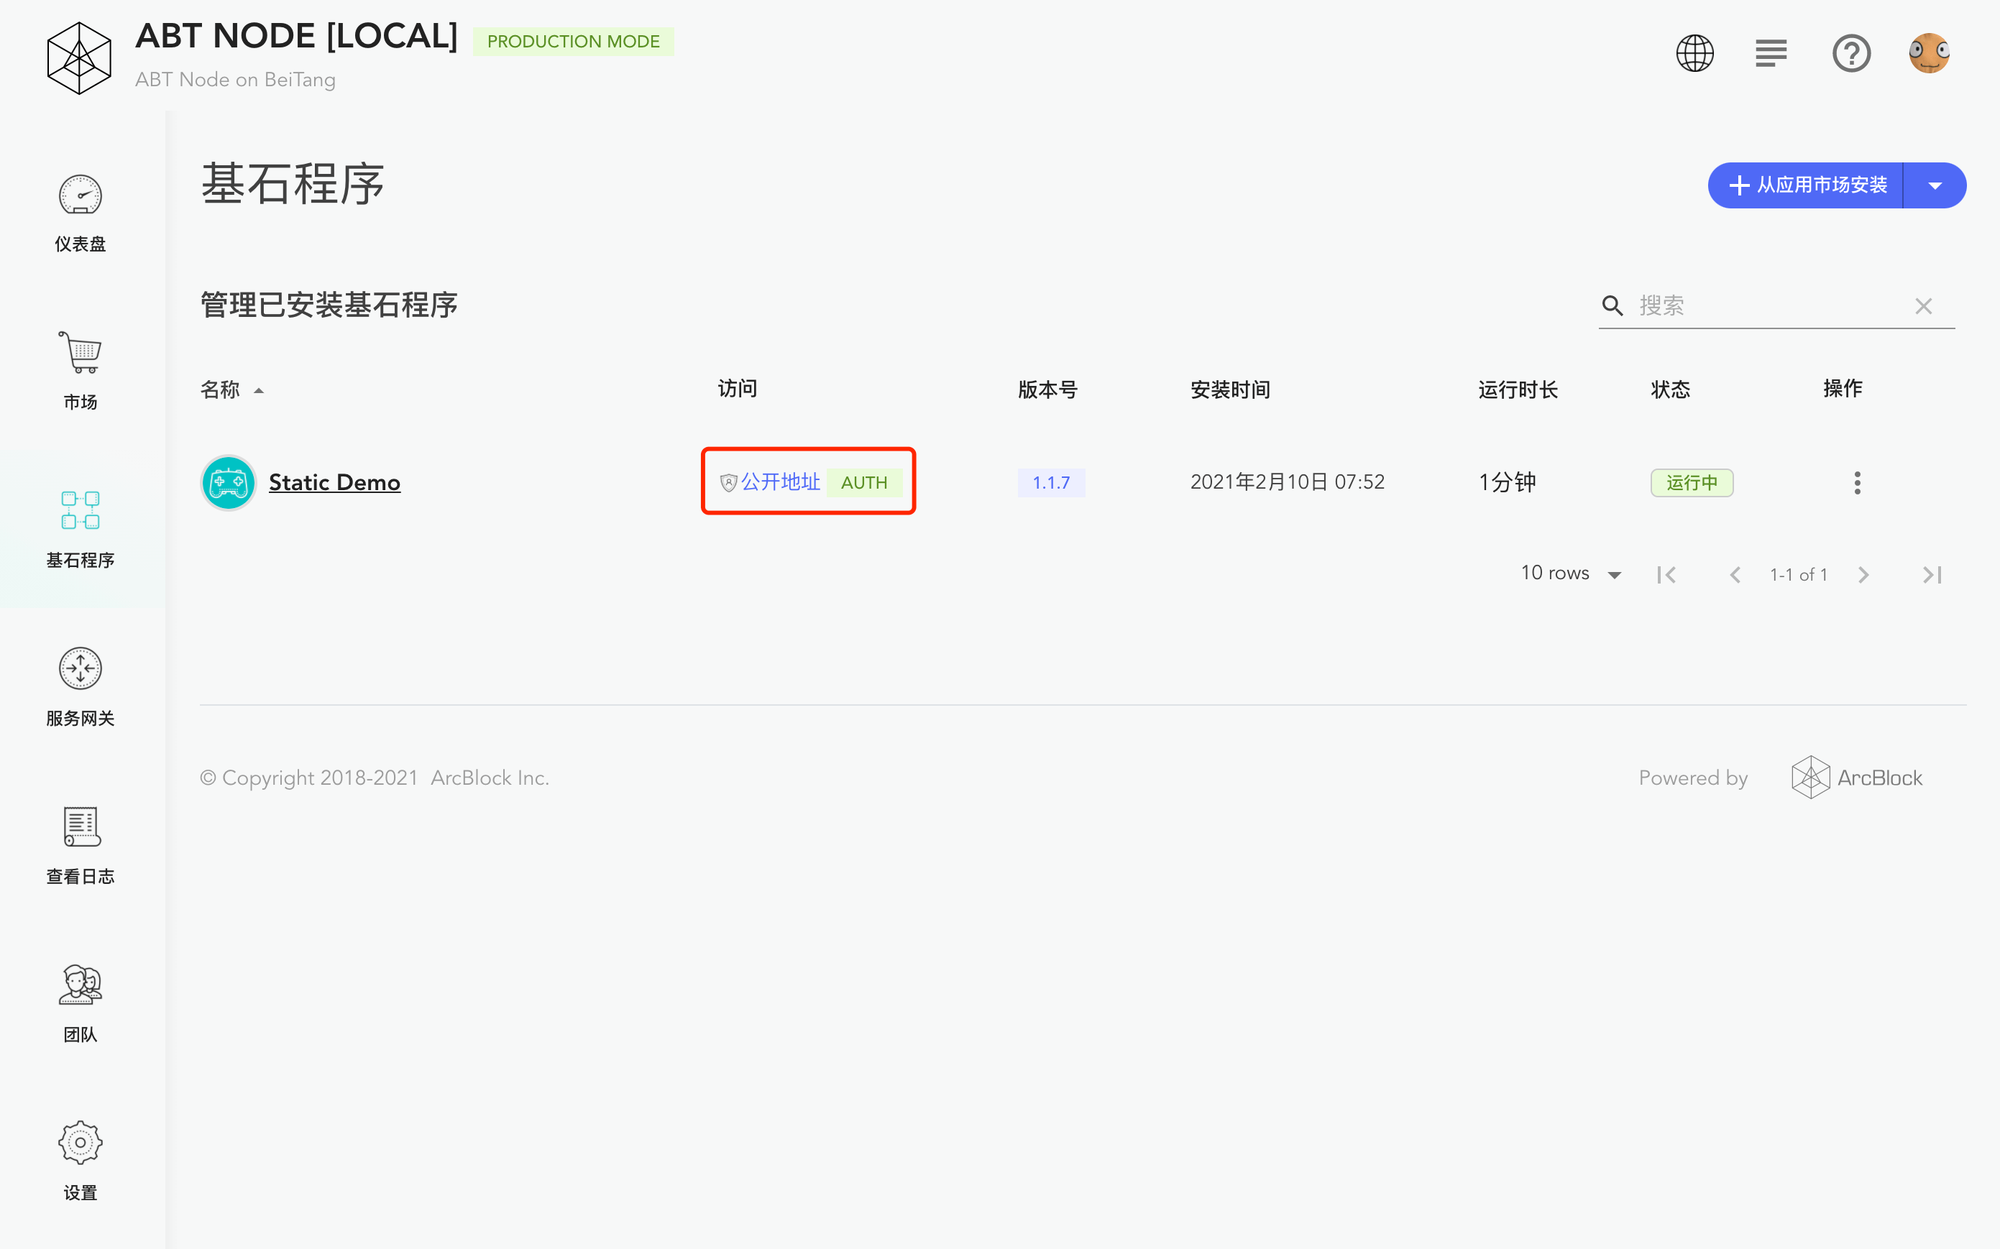
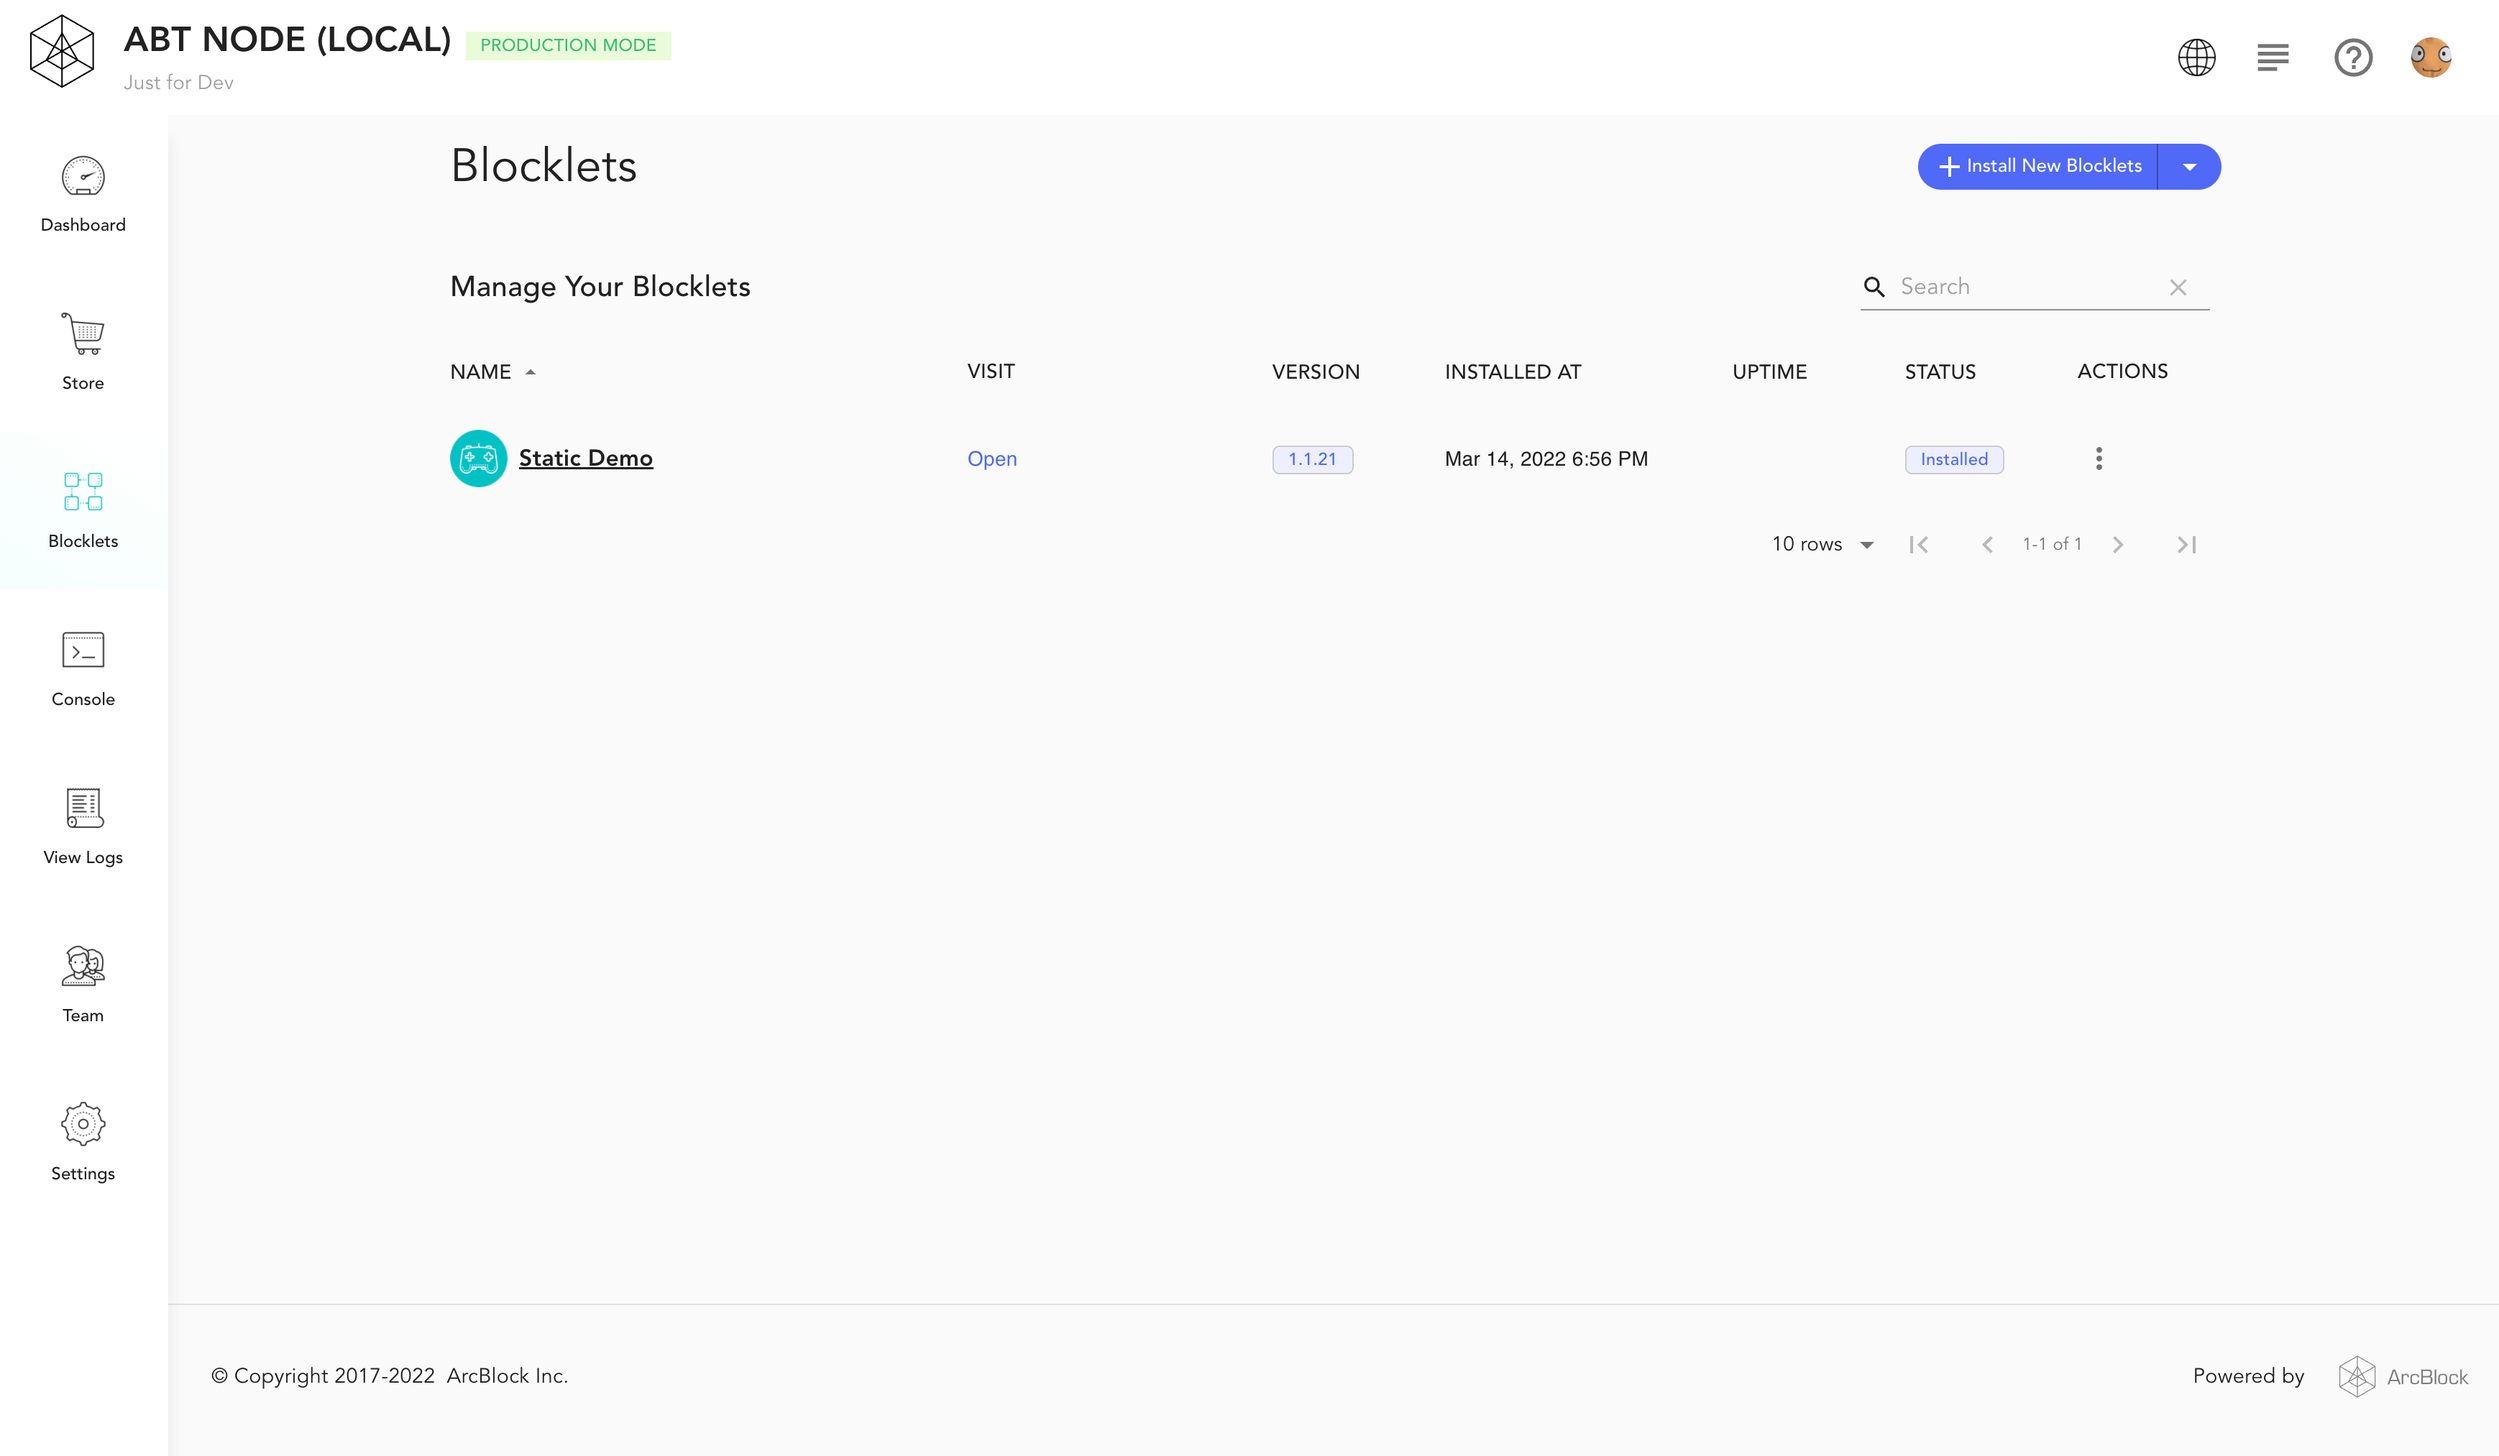
doc: update doc for auth service

diff --git a/src/developer/auth-service/index.zh.md b/src/developer/auth-service/index.zh.md
@@ -1,6 +1,6 @@
 ---
-title: '配置 Auth Service'
-description: 'Auth Service 使用说明'
+title: 'Auth 服务'
+description: 'Auth 服务使用说明'
 keywords: 'blocklet server, blocklet, service, auth'
 author: 'linchen'
 category: ''
@@ -12,23 +12,23 @@ tags:
   - 'auth'
 ---
 
-Auth Service 是 Blocklet Server 为 Blocklet 提供的通用 Auth 服务。
+Blocklet Server 为 Blocklet 提供了通用 Auth 服务。
 
-Blocklet 可以通过在 `blocklet.yml` 中以声明的方式启用和配置 Auth Service.
-
-Auth Service 包含以下主要能力：
-- 设置登录可访问
-- 设置授权可访问
-- 设置邀请登录和开放登录
+Auth 服务提供以下能力
+- 获取用户身份
+- 获取用户权限
+- 拦截未登录的请求（默认不拦截）
+- 拦截无权限的请求（默认不拦截）
+- 设置邀请登录和开放登录（默认为开放登录）
 
 ## 入门
-[static-demo-blocklet](https://github.com/blocklet/html-2048-sample) 是一个可以运行在 Blocklet Server 上的 html5 游戏。下面将介绍如何制作一个拥有 Auth 能力（登录后可访问）的 static-demo-blocklet.
+[static-demo-blocklet](https://github.com/blocklet/html-2048-sample) 是一个可以运行在 Blocklet Server 上的 html5 游戏。下面将介绍如何制作一个只允许登录后可访问的 static-demo-blocklet.
 
-0. 前置条件: 本地安装并且运行 v1.2.0 以上版本的 Blocklet Server
+0. 前置条件: 本地安装并且运行 v1.7.0 以上版本的 Blocklet Server
 
 1. 下载项目源代码 [html-2048-sample](https://github.com/blocklet/html-2048-sample)
 
-2. 打开项目根目录下 `blocklet.yml`, 找到 name 为 publicUrl 的 interface, 并添加 Auth Service 配置
+2. 打开项目根目录下 `blocklet.yml`, 找到 name 为 publicUrl 的 interface, 并添加 Auth 配置
 
 ``` yml
 interfaces:
@@ -39,7 +39,9 @@ interfaces:
     port: BLOCKLET_PORT
     protocol: tcp
 +   services:
-+     - name: '@abtnode/auth-service'
++     - name: 'auth'
++       config:
++         blockUnauthenticated: true
 ```
 
 3. 在项目根目录下执行 `blocklet bundle`. 执行成功后, 在 `.blocklet/bundle` 中会看到被成功创建的 blocklet bundle.
@@ -50,7 +52,7 @@ linchen@LinkdeMacBook-Pro html-2048-sample % blocklet bundle
 ℹ Bundling in zip mode for blocklet static-demo-blocklet...
 
 ✔ Creating blocklet bundle in .blocklet/bundle... Done in 0.018s
-✔ Blocklet static-demo-blocklet@1.1.7 is successfully bundled!
+✔ Blocklet static-demo-blocklet@1.1.21 is successfully bundled!
 ```
 
 4. 在项目根目录下执行 `blocklet deploy .blocklet/bundle`, 将 blocklet bundle 发布到本地运行的 Blocklet Server.
@@ -60,7 +62,7 @@ linchen@LinkdeMacBook-Pro html-2048-sample % blocklet deploy .blocklet/bundle
 ℹ Try to deploy blocklet from /Users/linchen/code/blocklet/html-2048-sample/.blocklet/bundle to Local Blocklet Server
 ℹ Node did from config zNKqGAvUzcCowxtNA5r5gKQYUm2hR4X2SE2o
 ℹ Load config from /Users/linchen/code/arcblock/andata/.abtnode/abtnode.yml
-✔ Blocklet static-demo-blocklet@1.1.7 was successfully deployed!
+✔ Blocklet static-demo-blocklet@1.1.21 was successfully deployed!
 ```
 
 5. 在 Blocklet Server dashboard 启动 Static Demo
@@ -79,23 +81,11 @@ linchen@LinkdeMacBook-Pro html-2048-sample % blocklet deploy .blocklet/bundle
 
 ## Demo
 
-[https://github.com/blocklet/auth-demo](https://github.com/blocklet/auth-demo): 基于 Auth Service 实现了登录，登出，显示用户信息，认证，授权功能
+[https://github.com/blocklet/auth-demo](https://github.com/blocklet/auth-demo): 使用 Auth 服务实现了登录，登出，显示用户信息，认证，授权功能
 
-## 启用 Auth Service
-在 `blocklet.yml` 中，在需要启动 Auth Service 的 interface 下，配置并启用 Auth Service
+## 配置 Auth 服务
+所有 blocklet 安装后即具备了 Auth 能力. 你也可以在 `blocklet.yml` 中配置 Auth 服务
 
-```yml
-interfaces:
-  - type: web
-    name: xxxx
-    # ... other interface config
-    services:
-      - name: '@abtnode/auth-service'
-        config:
-        # ...
-```
-
-## 配置
 e.g.
 
 ```yml
@@ -104,7 +94,7 @@ interfaces:
     name: publicUrl
     # ... other interface config
     services:
-      - name: '@abtnode/auth-service'
+      - name: 'auth'
         config:
           invitedUserOnly: no
           profileFields:
@@ -114,7 +104,7 @@ interfaces:
           webWalletUrl: https://web.abtwallet.io
           ignoreUrls:
             - /path/to/**
-          blockUnauthenticated: true
+          blockUnauthenticated: false
           blockUnauthorized: false
 ```
 
@@ -122,19 +112,17 @@ interfaces:
   - default: no
 - profileFields: 登录时需要提供的身份信息
   - default: [fullName, email, avatar]
-- blockUnauthenticated: Auth Service 是否自动拦截未登录的请求, 并跳转到登录页
-  - default: true
-- blockUnauthorized: Auth Service 是否自动拦截未授权的请求
+- blockUnauthenticated: Auth 服务是否自动拦截未登录的请求, 并跳转到登录页
   - default: false
-- ignoreUrls: Auth Service 不会拦截哪些 url
+- blockUnauthorized: Auth 服务是否自动拦截未授权的请求
+  - default: false
+- ignoreUrls: Auth 服务不会拦截哪些 url
   - default: none
-- webWalletUrl: 通过 Auth Service 登录时的 Web Wallet 地址
+- webWalletUrl: 通过 Auth 服务登录时的 Web Wallet 地址
   - default: https://web.abtwallet.io
 
 ## 设置登录可访问
-启用 Auth Service 后，Auth Service 会自动拦截未登录的请求, 并跳转到 Auth Service 登录页.
-
-如果 Blocklet 希望自己处理未登录的请求, 可以做如下配置:
+设置登录可访问后，Auth 服务会自动拦截未登录的请求, 并跳转到登录页
 
 ```yml
 interfaces:
@@ -142,16 +130,14 @@ interfaces:
     name: xxxx
     # ... other interface config
     services:
-      - name: '@abtnode/auth-service'
+      - name: 'auth'
         config:
-          blockUnauthenticated: false
+          blockUnauthenticated: true
 ```
 
 ## 设置授权可访问
 
-启用 Auth Service 后，Auth Service **不会** 自动拦截未授权的请求. Blocklet 需要自己处理.
-
-如果 Blocklet 希望 Auth Service 自动拦截未授权的请求, 可以做如下配置:
+After setting authorized access, Auth Service automatically intercepts unauthorized requests
 
 ```yml
 interfaces:
@@ -159,7 +145,7 @@ interfaces:
     name: xxxx
     # ... other interface config
     services:
-      - name: '@abtnode/auth-service'
+      - name: 'auth'
         config:
           blockUnauthorized: true
 ```
@@ -178,7 +164,7 @@ interfaces:
     name: xxxx
     # ... other interface config
     services:
-      - name: '@abtnode/auth-service'
+      - name: 'auth'
         config:
           invitedUserOnly: yes
 ```
@@ -186,4 +172,3 @@ interfaces:
 - invitedUserOnly
   - no: 开放登录 (默认)
   - yes: 只能通过邀请链接登录
-  - not-first: 只有第一个登录用户不需要通过邀请链接

diff --git a/src/developer/auth-service/index.md b/src/developer/auth-service/index.md
@@ -1,5 +1,5 @@
 ---
-title: 'Configure Auth Service'
+title: 'Auth Service'
 description: 'Auth Service Instructions'
 keywords: 'blocklet server, blocklet, service, auth'
 author: 'linchen'
@@ -12,23 +12,23 @@ tags:
   - 'auth'
 ---
 
-Auth Service is a general Auth service provided by Blocklet Server for Blocklet.
+Blocklet Server provides generic auth service for Blocklets.
 
-Blocklet can be declaratively enabled and configured Auth Service in `blocklet.yml`.
-
-Auth Service includes the following main capabilities:
-- Set accessible after login
-- Set accessible after authorization
-- Set invitation login or open login
+Auth service provides the following capabilities
+- Get user identity
+- Get user permissions
+- Intercept unlogged requests (do not intercept by default)
+- Intercept unauthorised requests (do not intercept by default)
+- Set invite login and open login (default is open login)
 
 ## Getting Started
-[static-demo-blocklet](https://github.com/blocklet/html-2048-sample) is an html5 game that can be run on Blocklet Server. The following will introduce how to make a static-demo-blocklet with Auth capability (login protection)
+[static-demo-blocklet](https://github.com/blocklet/html-2048-sample) is an html5 game that can be run on Blocklet Server. The following will introduce how to make a static-demo-blocklet that is only accessible after login.
 
-0. Prerequisites: Install and run Blocklet Server v1.2.0 or higher locally
+0. Prerequisites: Install and run Blocklet Server v1.7.0 or higher locally
 
 1. Download the project source code [html-2048-sample](https://github.com/blocklet/html-2048-sample)
 
-2. Open `blocklet.yml` in the project root directory, find the interface whose name is publicUrl, and add the Auth Service configuration
+2. Open `blocklet.yml` in the project root directory, find the interface whose name is publicUrl, and add the Auth configuration
 
 ``` yml
 interfaces:
@@ -39,7 +39,9 @@ interfaces:
     port: BLOCKLET_PORT
     protocol: tcp
 +   services:
-+     - name: '@abtnode/auth-service'
++     - name: 'auth'
++       config:
++         blockUnauthenticated: true
 ```
 
 3. Execute `blocklet bundle` in the project root directory. After successful execution, you will see the successfully created blocklet bundle in `.blocklet/bundle`.
@@ -50,7 +52,7 @@ linchen@LinkdeMacBook-Pro html-2048-sample % blocklet bundle
 ℹ Bundling in zip mode for blocklet static-demo-blocklet...
 
 ✔ Creating blocklet bundle in .blocklet/bundle... Done in 0.018s
-✔ Blocklet static-demo-blocklet@1.1.7 is successfully bundled!
+✔ Blocklet static-demo-blocklet@1.1.21 is successfully bundled!
 ```
 
 4. Execute `blocklet deploy .blocklet/bundle` in the project root directory to publish the blocklet bundle to the locally running Blocklet Server.
@@ -60,7 +62,7 @@ linchen@LinkdeMacBook-Pro html-2048-sample % blocklet deploy .blocklet/bundle
 ℹ Try to deploy blocklet from /Users/linchen/code/blocklet/html-2048-sample/.blocklet/bundle to Local Blocklet Server
 ℹ Node did from config zNKqGAvUzcCowxtNA5r5gKQYUm2hR4X2SE2o
 ℹ Load config from /Users/linchen/code/arcblock/andata/.abtnode/abtnode.yml
-✔ Blocklet static-demo-blocklet@1.1.7 was successfully deployed!
+✔ Blocklet static-demo-blocklet@1.1.21 was successfully deployed!
 ```
 
 5. Start Static Demo in Blocklet Server dashboard
@@ -81,21 +83,9 @@ Congratulations!
 
 [https://github.com/blocklet/auth-demo](https://github.com/blocklet/auth-demo): Implement login, logout, display user information, authentication and authorization functions based on Auth Service
 
-## Enable Auth Service
-Enable Auth Service by configuring in `blocklet.yml`, under the interface that needs to start Auth Service
+## Configure the Auth service
+All blocklets are installed with Auth capabilities. You can also configure the Auth service in `blocklet.yml`
 
-```yml
-interfaces:
-  - type: web
-    name: xxxx
-    # ... other interface config
-    services:
-      - name: '@abtnode/auth-service'
-      - config:
-        # ...
-```
-
-## Configuration
 e.g.
 
 ```yml
@@ -104,7 +94,7 @@ interfaces:
     name: publicUrl
     # ... other interface config
     services:
-      - name: '@abtnode/auth-service'
+      - name: 'auth'
         config:
           invitedUserOnly: no
           profileFields:
@@ -114,7 +104,7 @@ interfaces:
           webWalletUrl: https://web.abtwallet.io
           ignoreUrls:
             - /public/**
-          blockUnauthenticated: true
+          blockUnauthenticated: false
           blockUnauthorized: false
 ```
 
@@ -132,9 +122,7 @@ interfaces:
   - default: https://web.abtwallet.io
 
 ## Set accessible after login
-After Auth Service is enabled, Auth Service will automatically intercept requests that are not logged in and jump to the Auth Service login page.
-
-If Blocklet wants to handle unlogged requests by itself, it can be configured as follows:
+After setting the login access, the Auth service will automatically intercept requests that are not logged in, and jump to the login page
 
 ```yml
 interfaces:
@@ -142,9 +130,9 @@ interfaces:
     name: xxxx
     # ... other interface config
     services:
-      - name: '@abtnode/auth-service'
+      - name: 'auth'
         config:
-          blockUnauthenticated: false
+          blockUnauthenticated: true
 ```
 
 ## Set accessible after authorization
@@ -159,7 +147,7 @@ interfaces:
     name: xxxx
     # ... other interface config
     services:
-      - name: '@abtnode/auth-service'
+      - name: 'auth'
         config:
           blockUnauthorized: true
 ```
@@ -178,7 +166,7 @@ interfaces:
     name: xxxx
     # ... other interface config
     services:
-      - name: '@abtnode/auth-service'
+      - name: 'auth'
         config:
           invitedUserOnly: yes
 ```
@@ -186,4 +174,3 @@ interfaces:
 - invitedUserOnly
   - no: Open login (default)
   - yes: Only log in via invitation link
-  - not-first: Only the first login user does not need to go through the invitation link

diff --git a/src/developer/index.md b/src/developer/index.md
@@ -19,7 +19,7 @@ If you are a developer and want to do something with Blocklet Server ,this chapt
 - [Create DApp Blocklets](./dapp-blocklets)
 - [Blocklet Specification](./blocklet-spec)
 - [Blocklet SDK](./blocklet-sdk)
-- [Configure Auth Service](./auth-service)
+- [Auth Service](./auth-service)
 - [Send notification to DID Wallet](./send-notification)
 - [Use DID Connect](./did-connect)
 - [Composable blocklet](./composable-blocklet)

diff --git a/src/developer/index.zh.md b/src/developer/index.zh.md
@@ -19,7 +19,7 @@ tags:
 - [创建 DApp Blocklet](./dapp-blocklets)
 - [Blocklet 规范](./blocklet-spec)
 - [Blocklet SDK](./blocklet-sdk)
-- [为 Blocklet 配置 Auth Service](./auth-service)
+- [Auth 服务](./auth-service)
 - [向 DID Wallet 发送消息](./send-notification)
 - [使用 DID Connect](./did-connect)
 - [可组合的 Blocklet](./composable-blocklet)
